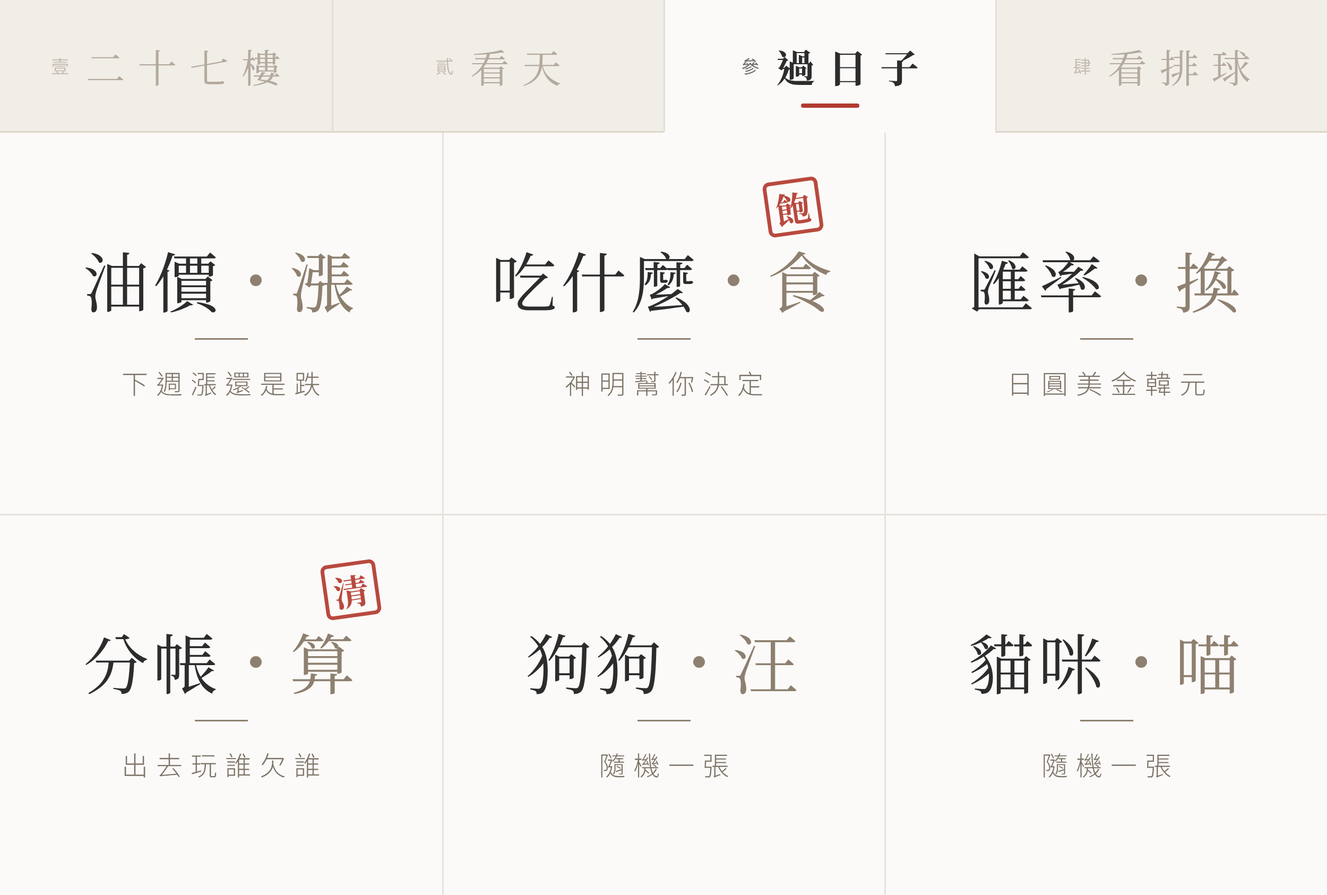
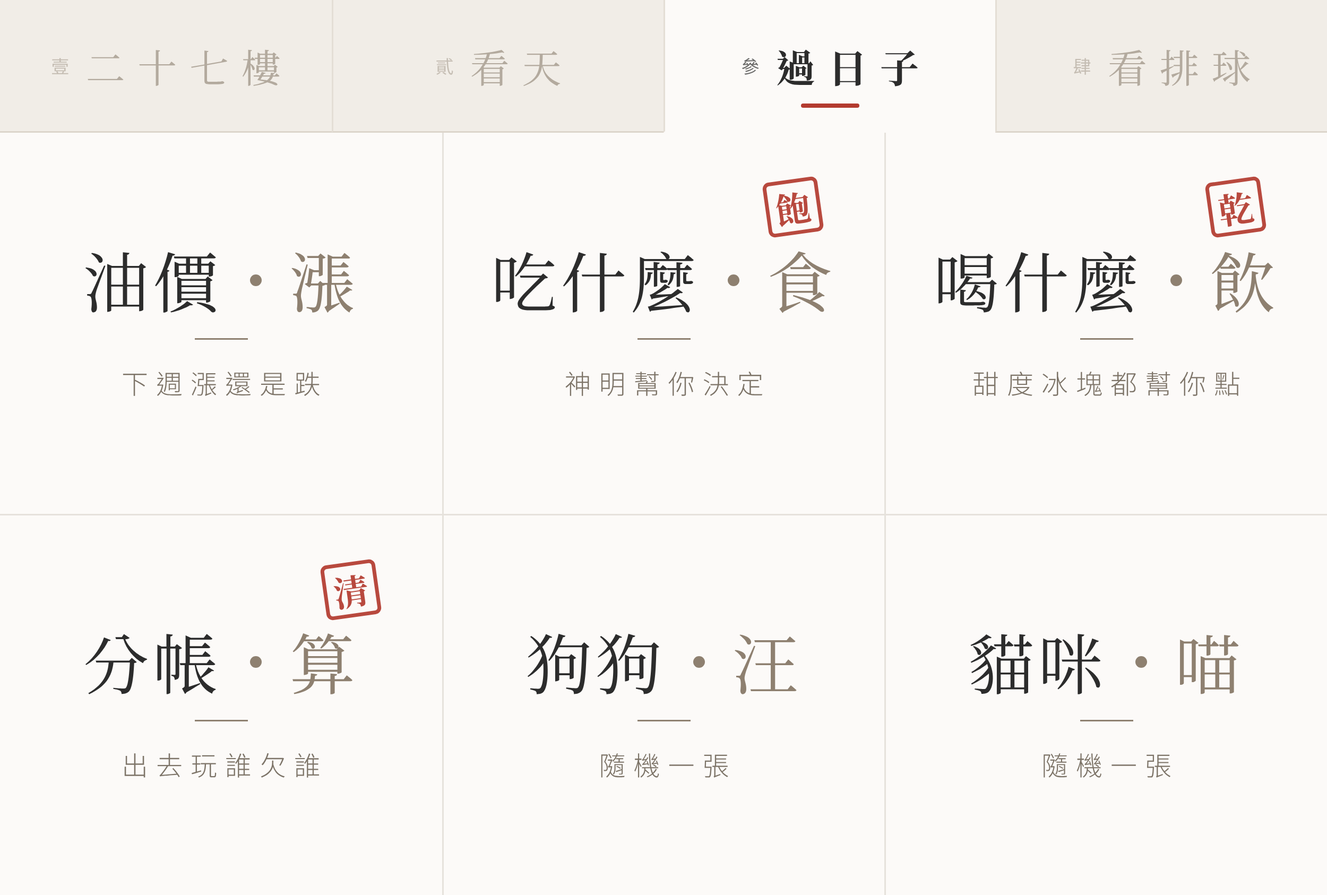
add drink picker to LINE bot, farm link on work board
Claude-Session: https://claude.ai/code/session_01DfELKGAuUeHGLNNJha5AAX

Changed region(s): [[0.6864, 0.1851, 0.9672, 0.3701], [0.7488, 0.4009, 0.936, 0.4626]]

diff --git a/rank.html b/rank.html
@@ -293,9 +293,10 @@
         <!-- 登入才上榜 -->
         <section id="join" class="hidden mt-6 border border-dashed border-stone-200 rounded-sm p-6"></section>
 
-        <div class="mt-6 grid grid-cols-2 gap-3">
+        <div class="mt-6 grid grid-cols-3 gap-2">
             <a id="go1" href="xitou.html" class="block py-4 border border-stone-300 text-center text-wabi-dark hover:border-wabi-dark transition-colors tracking-[0.2em] font-sans text-xs">去坐洗部</a>
             <a id="go2" href="fangwu.html" class="block py-4 border border-stone-300 text-center text-wabi-dark hover:border-wabi-dark transition-colors tracking-[0.2em] font-sans text-xs">去房務部</a>
+            <a id="go3" href="caiyuan.html" class="block py-4 border border-stone-300 text-center text-wabi-dark hover:border-wabi-dark transition-colors tracking-[0.2em] font-sans text-xs">去菜園部</a>
         </div>
 
         <p class="mt-10 text-[11px] font-sans tracking-widest text-stone-400 leading-relaxed text-center">
@@ -333,8 +334,8 @@
         try { const s = JSON.parse(sessionStorage.getItem('dongbuli-rank-tab') || '{}'); if (s.book) book = s.book; if (s.metric) metric = s.metric; if (s.dept) dept = s.dept; if (s.cat) cat = s.cat; } catch (e) { }
         if (location.hash === '#spend') book = 'spend'; else if (location.hash === '#work') book = 'work';
         const BOOKS = {
-            work: { title: '打工・榜', tag: '誰在二十七樓最勤勞，<br>牆上寫得清清楚楚。', go: [['xitou.html', '去坐洗部'], ['fangwu.html', '去房務部']], join: '打工' },
-            spend: { title: '花錢・榜', tag: '錢不是賺來的，<br>是花出去才算數。', go: [['scratch.html', '去彩券行'], ['gongde.html', '去功德箱']], join: '花錢' },
+            work: { title: '打工・榜', tag: '誰在二十七樓最勤勞，<br>牆上寫得清清楚楚。', go: [['xitou.html', '去坐洗部'], ['fangwu.html', '去房務部'], ['caiyuan.html', '去菜園部']], join: '打工' },
+            spend: { title: '花錢・榜', tag: '錢不是賺來的，<br>是花出去才算數。', go: [['scratch.html', '去彩券行'], ['gongde.html', '去功德箱'], ['xitou.html', '去洗頭店']], join: '花錢' },
         };
         // 花錢榜：每一類多少錢、小字寫什麼
         const CATS = {
@@ -396,7 +397,7 @@
             const B = BOOKS[book];
             $('title').textContent = B.title; $('tagline').innerHTML = B.tag;
             $('workCtl').classList.toggle('hidden', book !== 'work'); $('spendCtl').classList.toggle('hidden', book !== 'spend');
-            [$('go1'), $('go2')].forEach((a, i) => { a.href = B.go[i][0]; a.textContent = B.go[i][1]; });
+            [$('go1'), $('go2'), $('go3')].forEach((a, i) => { a.href = B.go[i][0]; a.textContent = B.go[i][1]; });
             $('boardNote').textContent = book === 'spend' ? CATS[cat].note : metric === 'best'
                 ? (dept === 'farm' ? '菜園比的是一輪賣最多少錢（單位跟另外兩部不同，「全部」那頁不算菜園）。' : '一場的最高分（爽度、乾淨度都是滿分 100），同分比誰快。從洗完、打掃完存到雲端開始算。')
                 : metric === 'money' ? '打工賺的錢加起來（工資、小費、失物招領、加成都算）。' : '洗幾顆頭、打掃幾間。';
@@ -433,7 +434,7 @@
                 </div>`;
             }).join('') : `<p class="py-10 text-center text-xs font-sans tracking-wider text-stone-400 leading-relaxed">${
                 book === 'spend' ? (players.length && !players.some(p => p.spend) ? '花錢・榜要等後端重新部署「新版本」才有。' : CATS[cat].empty)
-                : `${dept === 'clean' ? '房務部' : dept === 'xitou' ? '坐洗部' : '二十七樓'}還沒有人上榜。<br>第一名在等你。`}</p>`;
+                : `${DEPT[dept] || '二十七樓'}還沒有人上榜。<br>第一名在等你。`}</p>`;
             box.querySelectorAll('img.avatar').forEach(img => img.addEventListener('error', () => {
                 badPic.add(img.getAttribute('src'));
                 const s = document.createElement('span'); s.className = 'avatar'; s.textContent = img.dataset.initial; img.replaceWith(s);

diff --git a/CLAUDE.md b/CLAUDE.md
@@ -48,7 +48,7 @@
 | `gongde.html` | 功德・添（不在導覽列，從會員中心進來）。載 `line.js`、`wallet.js`、`assets/gongde.js`。木頭功德箱（實物，顏色固定）：捐香油錢銅錢掉進去、木魚聲（Web Audio）；按鈕在箱子下面，捐的時候先捲回箱子再演。位階卡（`Gongde.TIERS`：路人、善信 $1 萬、功德主 $5 萬、大護法 $20 萬、活菩薩 $100 萬，永久加持 10／20／30／40%，五盞小燈照位階亮）、捐香油錢（$1,000～100 萬六個按鈕＋自己填，最少 $100，20 萬以上先 confirm；可以順便許願 20 字）、點燈（上面一排五盞燈照有沒有點亮；每種燈一張卡：效果、剩多少、「點 1／5／20 盞」三個按鈕，`Gongde.PACKS`，點越多不會比較便宜）、規則說明、功德簿（這支手機最近 10 筆）。最下面寫「遊戲幣，不是真的捐款」。 |
 | `fangwu.html` | 房務・淨：打掃退房後的 27 樓（不在導覽列，從會員中心進來）。遊戲是純前端，只有打掃紀錄送後端（`cleanLog`），載 `line.js`、`wallet.js`。畫布 360×400 固定座標，房間裡的東西是實物、顏色固定。**上一組房客**隨機（`GUESTS`：喝酒團、刮刮樂狂、坐洗部的常客、宵夜派、帶貓來住的旅人；稀有房客各 5%：前夫、大橋頭麥克雞塊（愛喝酒，垃圾照喝酒團挑，`likes`；會搶棉被、睡相東倒西歪 `sprawl`：鋪床前房間裡床單歪一邊、枕頭睡到床尾、棉被捲成一條丟在沙發上（`drawSprawl()`），鋪床時床單四個角都跑到隔壁角附近、枕頭要拍五下 `G.bed.need`）、伊藤開晴（超愛刮刮樂，照刮刮樂狂挑，一半機會多留一張刮刮樂 `lotto`）；稀有房客一定會留下招牌遺失物 `sign`：前夫的指紋、一盒雞塊、伊藤的明牌筆記，各 $600～800），決定垃圾、污漬、遺失物是哪些。五道工序：**撿**（`ITEMS` 26 種垃圾挑 12 件，`pickItems()` 三個桶子各至少兩件；照台灣（台北市）真的規則分一般垃圾／資源回收／廚餘，下面三個大按鈕或點畫布上的桶子；分錯當場說明 `why`，結果區列出分錯的）→ **擦**（桌上的污漬畫在 `stainCv`，手指 `destination-out` 擦掉、一次只擦 60% 要來回兩遍，`countStain()` 算還剩多少，開始擦才計時 10 秒，擦掉 97% 提早結束）→ **鋪**（床單四個角拖到床墊的角 `MAT`，26px 內吸附；兩顆枕頭各拍三下；可以按「好了」提早結束）→ **找**（`SPOTS` 六個地方：枕頭下、床底、沙發縫、地毯下、盆栽後、窗簾後，翻 4 次，藏 2 件 `LOST`，5% 多一張沒刮的刮刮樂；找到另外給失物招領獎金 $100～800）→ **倒**（垃圾車〈給愛麗絲〉Web Audio 合成，一直點「衝」從 27F 跑到 1F，11.5 秒內趕上）。乾淨度 = 撿 25＋擦 20＋鋪 15＋找 15＋倒 25；房務費 = 乾淨度 × 10（最少 $100）＋失物招領＋五星好評（90 以上 $500、75 以上 $200），`Wallet.earn(…, 'clean')`。最後產生「房務檢查表」圖片（每道工序打勾、乾淨度、朱印 淨／亮／可／亂／髒），可以分享或下載。最高乾淨度存 `dongbuli-fangwu-best`，統計存 `dongbuli-fangwu-stats`（打掃幾間、分對幾件、趕上垃圾車幾次、每種遺失物找到幾次、每種房客、每種垃圾分錯幾次、最近 50 間的細節 `recent`）。**每一間也送到後端**（`uploadRooms()` → `cleanLog`，存在 Sheet `Cleans`，做法跟坐洗部的 `uploadWashes()` 一樣：打掃完馬上送、打開頁面 2.5 秒後補送，送到哪記在 stats 的 `synced`，一次最多 20 間，不加 `keepalive`；結果區 `#syncNote` 寫存檔狀態）。後端有 `setupCleans()` 可以在編輯器先建好 `Cleans` 分頁。 |
 | `caiyuan.html` | 菜園・拔：二十七樓頂樓菜園拔紅蘿蔔（不在導覽列，從會員中心「壹 打工」進來）。遊戲純前端，只有每一輪的紀錄送後端（`farmLog`），載 `line.js`、`wallet.js`。畫布 360×440 固定座標：上面天空、遠方大樓、欄杆（天空跟晝夜走：夜裡星星、月亮、亮燈的窗），下面木框菜園 3×3（`PLOTS`），菜園和蘿蔔是實物、顏色固定。一輪 60 秒（`ROUND`），點第一根才開始計時，拔掉的格子 0.9 秒後長新的（`spawn()`）。**一根要兩步**：按住葉子**左右搖**鬆土（方向反過來、這一趟走 10px 以上算一下，`loosen` 每下加 `SIZES[x].loosen`，土色變淺、噴土），再**往上拉**：力道 `force` = 手指往上移多少／130，格子上面一條力道條（`drawMeter()`）：綠色區 `band()` 是 0.12～0.36＋0.5×鬆土，在綠色裡 `progress` 照 `speed`×(0.35＋0.65×鬆土) 往上長，拉到紅色累積 `strain`：0.1 秒蘿蔔「歪」（打七折），0.42 秒「斷」（只剩四成）；下面細條是鬆了多少。葉子片數看大小：小 3 片 $30、中 4 片 $55、大 5 片 $90；心形 6% 多 $80；地瓜（心形葉，$60）、伊藤埋的刮刮樂（土裡露一角紙，$300）、鼴鼠（葉子跟蘿蔔一樣、偶爾自己抽一下，拔到扣 $50）。**巨型蘿蔔**：一輪 35% 機會在 8～38 秒之間長出來（`giantAt`，一輪最多一根），整格金色虛線框寫「巨」，一個人拉只能到 0.1；畫布下面出現「叫○○來幫忙」和「嘿呦」：幫手照順序是大橋頭麥克雞塊、伊藤開晴、坐洗部的狗、店貓（`HELPERS`，各說一句、畫成圓章排在旁邊拉繩子），每個收 $50 幫手費，嘿呦一下長 0.012＋0.02×幫手數，拔起來 $600 扣幫手費。賺的錢 = 賣的總和（`G.money`）＋農會表揚（十根以上而且一根都沒斷 $200），最少 $100（出勤費），`Wallet.earn(…, 'farm')`。最後幾秒倒數有滴答聲，結束敲鐘。結果區列收成、等第朱印 豐／好／可／歉／荒（`GRADES`，照拿到多少錢），產生「收成單」圖片（`makeSheet()`）。最高一輪存 `dongbuli-caiyuan-best`，統計存 `dongbuli-caiyuan-stats`（含最近 50 輪 `recent`），每一輪也送後端（`uploadRounds()` → `farmLog`，做法跟房務部一樣，`#syncNote`）。聲音都是 Web Audio 合成。 |
-| `rank.html` | 排行・榜，兩本榜：**打工・榜**和**花錢・榜**（標題下面兩個分頁 `data-book` 切換，網址 `#work`／`#spend` 可以直接開哪一本，標題、副標、下面兩顆「去哪裡」的按鈕跟著換）。不在導覽列，從會員中心（「排行・榜」）、坐洗部和房務部的結果區（打工）、彩券行錢包下面和功德簿下面（`rank.html#spend`）進來。**花錢・榜**分頁 `data-cat`：全部／刮刮樂／功德（捐香油錢＋點燈）／洗頭店，刮刮樂那頁小字寫刮中多少、賺還是虧；後端還是舊版（回來的人沒有 `spend`）就寫要重新部署。以下是打工・榜：載 `line.js`、`wallet.js`（要有 `wallet.js`，在這頁登入才會帶著手機的錢包開帳號）。打 `leaderboard` 拿全部上榜的人，前端自己排：上面分頁比什麼（賺最多／最高分／做最多），下面分頁哪個部門（全部／坐洗部／房務部／菜園部；菜園的「最高分」是一輪賣最多少錢，單位不同，「全部」那頁的最高分不算菜園），選哪個（連同哪一本、花錢的哪一類）記在 sessionStorage `dongbuli-rank-tab`。賺最多、做最多讀 `Players` 的 `earned.xitou`／`earned.clean`（`total`、`times`）；最高分是一場的爽度／乾淨度（`Washes`／`Cleans` 的 `total`），同分比誰快（`ms`），全部那頁取兩個部門比較好的那個。同分同名次，自己那列朱色標「我」。**前三名有特效**（金、銀、銅，金屬色是實物、固定，`.p1`／`.p2`／`.p3` 的 `--m1～m3`，夜裡只把字調亮 `--ink`）：名次朱印「壹貳參」照銅、銀、金的順序蓋下來（第一名是實心朱印加金框）、整列金箔底和左邊金屬條、一道光定時掃過、大頭貼外面金屬光圈在轉、第一名頭上有王冠（`CROWN` SVG）、名字和數字是金屬色（第一名名字流光，名字單獨包一層 `.gname`，不然「我」也會被 `background-clip:text` 吃掉）、金粉一閃一閃（`sparks()`，第一名七顆）；`prefers-reduced-motion` 全部停在最後的樣子。最多列 50 名，自己不在裡面就補在最後。大頭貼載不到就換成名字第一個字。只有 LINE 登入的人上榜（沒登入的下面有登入按鈕）；後端是舊版時寫「要重新部署」。 |
+| `rank.html` | 排行・榜，兩本榜：**打工・榜**和**花錢・榜**（標題下面兩個分頁 `data-book` 切換，網址 `#work`／`#spend` 可以直接開哪一本，標題、副標、下面三顆「去哪裡」的按鈕跟著換：打工是坐洗部、房務部、菜園部，花錢是彩券行、功德箱、洗頭店；新增打工部門記得加一顆）。不在導覽列，從會員中心（「排行・榜」）、坐洗部、房務部和菜園部的結果區（打工）、彩券行錢包下面和功德簿下面（`rank.html#spend`）進來。**花錢・榜**分頁 `data-cat`：全部／刮刮樂／功德（捐香油錢＋點燈）／洗頭店，刮刮樂那頁小字寫刮中多少、賺還是虧；後端還是舊版（回來的人沒有 `spend`）就寫要重新部署。以下是打工・榜：載 `line.js`、`wallet.js`（要有 `wallet.js`，在這頁登入才會帶著手機的錢包開帳號）。打 `leaderboard` 拿全部上榜的人，前端自己排：上面分頁比什麼（賺最多／最高分／做最多），下面分頁哪個部門（全部／坐洗部／房務部／菜園部；菜園的「最高分」是一輪賣最多少錢，單位不同，「全部」那頁的最高分不算菜園），選哪個（連同哪一本、花錢的哪一類）記在 sessionStorage `dongbuli-rank-tab`。賺最多、做最多讀 `Players` 的 `earned.xitou`／`earned.clean`（`total`、`times`）；最高分是一場的爽度／乾淨度（`Washes`／`Cleans` 的 `total`），同分比誰快（`ms`），全部那頁取兩個部門比較好的那個。同分同名次，自己那列朱色標「我」。**前三名有特效**（金、銀、銅，金屬色是實物、固定，`.p1`／`.p2`／`.p3` 的 `--m1～m3`，夜裡只把字調亮 `--ink`）：名次朱印「壹貳參」照銅、銀、金的順序蓋下來（第一名是實心朱印加金框）、整列金箔底和左邊金屬條、一道光定時掃過、大頭貼外面金屬光圈在轉、第一名頭上有王冠（`CROWN` SVG）、名字和數字是金屬色（第一名名字流光，名字單獨包一層 `.gname`，不然「我」也會被 `background-clip:text` 吃掉）、金粉一閃一閃（`sparks()`，第一名七顆）；`prefers-reduced-motion` 全部停在最後的樣子。最多列 50 名，自己不在裡面就補在最後。大頭貼載不到就換成名字第一個字。只有 LINE 登入的人上榜（沒登入的下面有登入按鈕）；後端是舊版時寫「要重新部署」。 |
 | `baoxian.html` | 保險・存：丼步喱人壽的儲蓄險（不在導覽列，從會員中心進來）。載 `line.js`、`wallet.js`。**要 LINE 登入才能投保**（「投保需實名認證」），因為投保、領錢、解約都直接改後端帳號、用後端的時鐘（`policyList`／`policyBuy`／`policyClaim`／`policyCancel`，見 API），手機調時間沒用；頁面的倒數用後端時間減手機時間的差（`offset`）。三種方案（後端 `POLICY_PLANS`，頁面先用頁內一份、登入後用後端回來的 `rules`）：三日・安 3 天 +3%、五日・穩 5 天 +6%、七日・久 7 天 +10%；每張 $1 萬～$10 萬，同時最多 3 張。投保扣的錢不算「花掉」；滿期要自己按「領滿期金」，利息記在 `earned.insure`（會員中心寫「丼步喱人壽」）；提早解約沒利息，拿回 70% 起、照經過的時間線性加到 100%（`POLICY_SURRENDER_BASE`），解約前跳業務員挽留（照進度換台詞）。保單是紙本（實物、顏色固定 `--paper` 等，不跟晝夜）：保單號碼、要保人（LINE 名字）、受益人本人、保額、投保／滿期時間、滿期金、進度條、每秒倒數、朱印「承保」（新投保那張蓋下來）；滿期那一刻解約鈕換成會呼吸的「領滿期金」。領錢、解約時畫面中間蓋大章「滿期」／「解約」加金額。結束的保單收在「舊保單」（最近 10 張）。投保、領錢、解約之前先 `Wallet.settle()`（把還沒送的錢包變化送完），後端回來的錢包用 `Wallet.adopt()` 接。條款寫「本公司不理賠前夫造成的任何損失」。 |
 | `404.html` | 找不到頁面。 |
 | `admin_login.html` | 後台登入：只有密碼，送到後端 `adminLogin` 比對，拿到 6 小時的通行證存在 `localStorage.adminToken`。後台兩頁打後端都走頁內的 `callApi()`：連不上、或 Apps Script 回了一頁 HTML 錯誤時，把原因翻成中文顯示出來（重新授權、同時太多人、今天用量到上限、Code.gs 沒貼完整…，後面附 Google 原本的錯誤字），不再只說「連不上後端」。 |
@@ -127,13 +127,14 @@
 - `排球`／`TPVL`（後面可接隊名或 `戰績`）：TPVL **沒有公開 API**，從 `tpvl.tw/matches`、`/standings` 的 HTML 抓 Next.js RSC flight payload（`self.__next_f.push([1,"..."])` 串起來），展開 `"$L<id>"` lazy 參照（`tpvlDefs`／`tpvlResolve`），每列用 `className":"tp-mrow"`／`tp-sx-row` 切段，欄位是 `"data-field":"x","data-value":"y"`（`tpvlFields`，取第一次出現的）。參考 `ichendong/tpvl-skill`（MIT）。未完賽的列清掉比分（會撿到別場的）、同 `match_no`＋日期去重。隊名 slug 對照在 `TPVL_TEAMS`、簡稱在 `TPVL_ALIASES`（2026-27 五隊）。存 30 分鐘（`tpvl:matches`／`tpvl:standings`）。**官網改版就會壞**，壞了回「讀不到」。群組裡認不得的隊名不回。Claude 的環境連不到 tpvl.tw，測試用模擬的 payload。
 - 排球球員（`排球 得分王`／`攔網`／`發球`／`攻擊`／`接發`／`防守`／`舉球`、`排球 球員 名字`、`排球 <隊> 球員`）：網址（`VOLLEY_CATEGORIES.path` + `query`）：得分是 `/stats/players?m=points&sort=points&order=desc`，其他是技能頁 `/stats/players/skills?m=block_points&skill=block&ssort=success&sorder=desc`、`m=reception_success&skill=reception…`、`m=dig_success&skill=dig…`、`m=setting_success&skill=setting…`（開源專案寫的 `sort=block_points` 是舊格式，官網會忽略）。得分頁的欄位是 `points`、`points_per_set`、`high_points`；技能頁的數字在 `success`（次數）、`success_rate`（可能是 0.48 或 48.5，`rateFmt()` 都處理）、`per_set`。`leaderField()` 取這頁第一個真的有值的欄位。**技能排行的路徑是 `/stats/players/skills?…`**（使用者在瀏覽器確認的；頁面裡的連結寫成 `/stats/players?…skill=…`，抓那個只會拿到得分頁）。路徑在 `VOLLEY_CATEGORIES.path`。讀不到數字欄位時回「讀不到數字，可能改版了」加官網連結。位置是 `"data-taxonomy":"position","data-term":"middle","children":"快攻手"`。每種一頁、存 1 小時（`tpvl:players:<key>`），一頁約 690KB。球員卡和單隊球員都用得分那頁。`debugTpvlPlayers()`／`debugTpvlLinks()` 會印出頁面實際的欄位和連結，官網改版時先跑這兩個。
 - `吃什麼`／`要吃什麼`／`吃啥`（`replyEat()`，不用網路）：照台灣時間挑早餐／午餐／下午茶／晚餐／宵夜（`EAT_MENUS`），後面可接餐別（`EAT_WORDS`：宵夜、甜點…）和「不要火鍋」「火鍋以外」；卡片下面「再抽一次」會帶同樣條件再送一次。群組裡剩下的字超過 4 個（「吃什麼都好啦我隨便」）就不回。
+- `喝什麼`／`要喝什麼`／`喝啥`／`飲料`（`replyDrink()`，不用網路）：`DRINK_KINDS` 十類約 270 杯（手搖純茶、奶茶、果茶、特調、咖啡、果汁・冰沙、古早味、超商、酒、水），名字後面 `#熱`／`#冰`／`#冷熱`／`#料` 是限制。先照時段（`DRINK_WEIGHTS`：早上咖啡豆漿多、酒只有晚上 6 點以後）挑一類再挑一杯，`drinkOptions()` 照那一類的規矩配大小、甜度、冰塊、加料（`DRINK_TOPPINGS` 最多三樣）、咖啡加什麼，組合約兩千九百萬種（`drinkCombos()`）。後面可接種類（`DRINK_WORDS`：咖啡、奶茶、果汁、古早味、超商、酒…）、熱的／冰的、無糖、去冰，和「不要珍珠」「咖啡以外」；天氣有快取（有人剛問過天氣）就冷天多給熱的，不另外抓。群組裡剩下的字超過 4 個不回。卡片「再抽一杯」帶同樣條件。
 - `匯率`（`replyFx()`）：臺灣銀行牌告 CSV `https://rate.bot.com.tw/xrt/flcsv/0/day`（不用金鑰，一列一幣：幣別、本行買入、現金、即期、遠期…、本行賣出、現金、即期…，沒有的填 0；`fxRates()` 用「本行買入／本行賣出」的位置找欄），存 30 分鐘（`fx`）。抓臺銀時帶瀏覽器的 `User-Agent`；**臺銀讀不到（被擋、改格式）就改用備援** `https://open.er-api.com/v6/latest/TWD`（ExchangeRate-API 免費版，不用金鑰，國際參考價、一天更新一次，倒過來算成 1 外幣多少台幣），卡片寫「國際參考價（臺銀今天讀不到）」，臺銀會回一頁網頁（擋 Google 的機器，使用者執行 `testFx()` 看到的），所以實際上都是用備援；這時快取存一小時、之後再試臺銀（`fetchBotFx()`／`fetchBackupFx()`）。`testFx()` 在編輯器執行，執行紀錄會寫兩邊讀不讀得到、為什麼。只打「匯率」列日圓、美金、韓元、歐元、人民幣、港幣、泰銖的現金賣出和「1 萬日圓≈多少台幣」；`匯率 日圓`、`匯率 日圓 3萬`（要付多少台幣）、`匯率 台幣5000 韓元`（換得到多少），幣別別名在 `FX_NAMES`。
 - `狗`／`汪`／`狗狗`、`貓`／`喵`／`貓咪`（`exact: true`：整句只有這個字才算，群組聊天不會亂跳圖）：dog.ceo、The Cat API（備援 cataas），回圖片訊息加一句廢話。圖片訊息只回網址，LINE 自己去抓；要 HTTPS、JPEG／PNG（`isLineImage()`），gif 會重抽。`reply()` 可以一次回多則（陣列，最多 5 則）。
 - 規則：只讀（程式裡不能有寫入 Sheet 的呼叫，要寫入的事回網站連結）、只用 Reply API（不推播）、不回名字電話 Email。
 - 指令碼屬性：`LINE_CHANNEL_ACCESS_TOKEN`、`SHEET_ID`、`WEBHOOK_KEY`（webhook 網址要帶 `?key=`，對不上或沒設定就不處理）。
 - 擲杯的三聖杯存在 `CacheService`，key 是 `streak:` + groupId／roomId／userId，6 小時。
 - **台詞跟網站同步**：擲杯台詞（`jiaobei.html` 的 `RESULTS`）、御神籤（`index.html` 的 `FORTUNES`）改了，`line-bot/Code.gs` 的 `JIAOBEI_LINES`、`FORTUNES` 也要改，並請使用者重新部署 bot 專案。
-- **圖文選單是四個分頁**（`Code.gs` 的 `RICH_MENUS`，用 Messaging API 建，不是在 Official Account Manager 手動設）：上面一排分頁（壹 二十七樓、貳 看天、參 過日子、肆 看排球，高 250px、每個寬 625px（`RM_TABS`），`richmenuswitch` 切換，分頁代號 `dbl-27`／`dbl-sky`／`dbl-life`／`dbl-volley`），下面 3×2 六格（`RM_COLS`；message 動作等於幫使用者打指令；訂房是網站網址；「遊戲・玩」是 `GAMES_URL` = 網站 LIFF 的 `member.html`，在 LINE 裡點開會自動用 LINE 登入、錢包跟著帳號）。過日子：油價、吃什麼、匯率、分帳（直接開 `SPLIT_URL`）、狗、貓（股價還是可以打字查）；看排球：比分、戰績、得分王、攔網、攻擊、吳宗軒（`排球 球員 吳宗軒`；發球、接發、防守、舉球要自己打）。圖是 `line-bot/richmenu-27/sky/life/volley.png`（2500×1686），由 `line-bot/richmenu-tabs.js` 照 `richmenu-tabs.json` 產生；**`richmenu-tabs.json` 和 `RICH_MENUS` 要手動保持一致**，改了要把 `RICH_MENU_VERSION` 加一，請使用者在編輯器執行 `setupRichMenus()`（先驗證全部、先抓好圖才開始建，建好換分頁代號、設預設、刪掉舊的 `dbl-*`）；`removeRichMenus()` 回到 Official Account Manager 的舊選單（`line-bot/richmenu.png`）。點分頁 LINE 會送 postback，`doPost` 不處理 postback，所以不會回話。群組裡看不到圖文選單。新增指令想放進選單，要換掉某一格。
+- **圖文選單是四個分頁**（`Code.gs` 的 `RICH_MENUS`，用 Messaging API 建，不是在 Official Account Manager 手動設）：上面一排分頁（壹 二十七樓、貳 看天、參 過日子、肆 看排球，高 250px、每個寬 625px（`RM_TABS`），`richmenuswitch` 切換，分頁代號 `dbl-27`／`dbl-sky`／`dbl-life`／`dbl-volley`），下面 3×2 六格（`RM_COLS`；message 動作等於幫使用者打指令；訂房是網站網址；「遊戲・玩」是 `GAMES_URL` = 網站 LIFF 的 `member.html`，在 LINE 裡點開會自動用 LINE 登入、錢包跟著帳號）。過日子：油價、吃什麼、喝什麼、分帳（直接開 `SPLIT_URL`）、狗、貓（股價、匯率還是可以打字查）；看排球：比分、戰績、得分王、攔網、攻擊、吳宗軒（`排球 球員 吳宗軒`；發球、接發、防守、舉球要自己打）。圖是 `line-bot/richmenu-27/sky/life/volley.png`（2500×1686），由 `line-bot/richmenu-tabs.js` 照 `richmenu-tabs.json` 產生；**`richmenu-tabs.json` 和 `RICH_MENUS` 要手動保持一致**，改了要把 `RICH_MENU_VERSION` 加一，請使用者在編輯器執行 `setupRichMenus()`（先驗證全部、先抓好圖才開始建，建好換分頁代號、設預設、刪掉舊的 `dbl-*`）；`removeRichMenus()` 回到 Official Account Manager 的舊選單（`line-bot/richmenu.png`）。點分頁 LINE 會送 postback，`doPost` 不處理 postback，所以不會回話。群組裡看不到圖文選單。新增指令想放進選單，要換掉某一格。
 
 ## 設計規範
 
